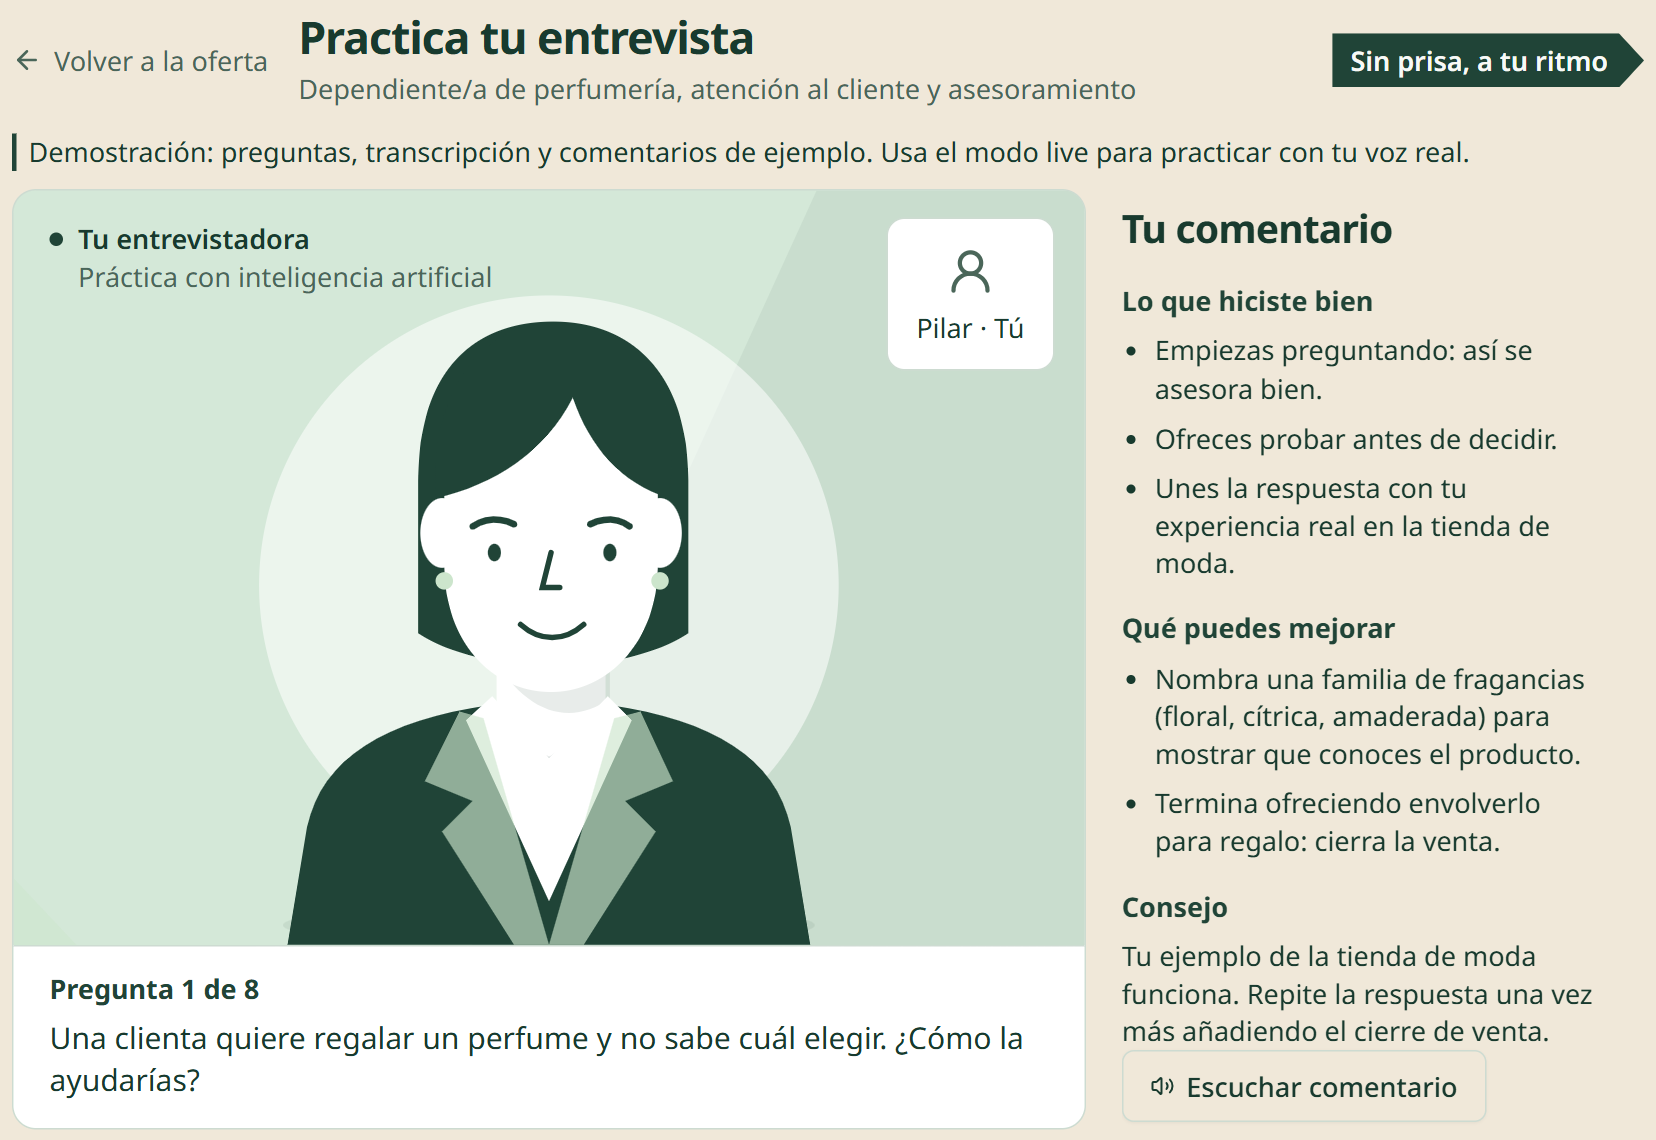
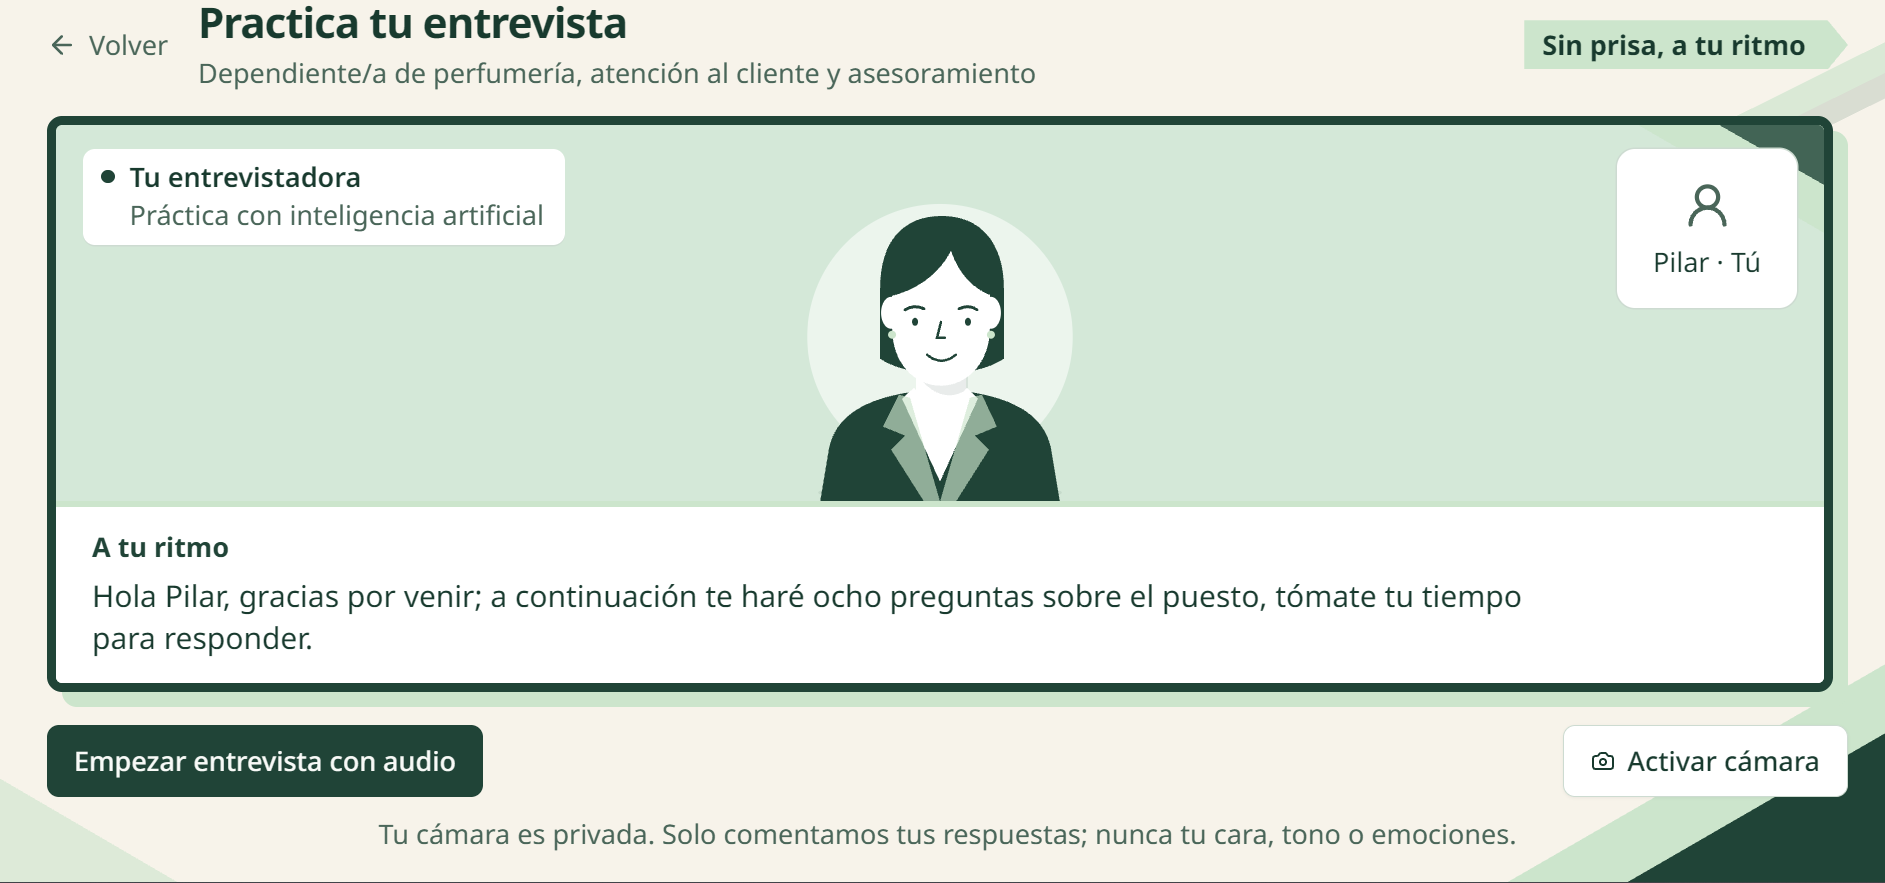
Actualiza la captura de la entrevista del pitch (#58)

diff --git a/pitch/style.css b/pitch/style.css
@@ -124,15 +124,14 @@
 .demo-cv .demo-cv-fija { display: none; }
 html.print .demo-cv .demo-cv-fija { display: block; }
 html.print .demo-cv .demo-cv-animada { display: none; }
-.demo-entrevista {
-  display: grid;
-  grid-template-columns: 3fr 2fr;
-  align-items: center;
-  gap: 1.5rem;
+.demo-entrevista img { object-position: center; }
+.demo-entrevista figcaption {
+  display: flex;
+  justify-content: center;
+  gap: 2.5rem;
+  font-size: 1.1rem;
 }
-.demo-entrevista figcaption { margin: 0; font-size: 1.5rem; }
 .demo-entrevista figcaption p { margin: 0; line-height: 1.35; }
-.demo-entrevista figcaption p + p { margin-top: 1.4rem; }
 
 /* Cierre */
 .cierre { font-family: var(--font-display-family); font-size: 2.6rem; line-height: 1.2; margin: 1.6rem 0 1rem; }

diff --git a/pitch/slides.md b/pitch/slides.md
@@ -151,7 +151,7 @@ Con el CV abierto, Pilar pulsa «Mejorar mi CV». La versión adaptada hace visi
 # Pilar practica la entrevista
 
 <figure class="demo-captura demo-entrevista">
-  <img src="/demo-entrevista.png" alt="Al curro muestra una pregunta sobre cómo ayudar a elegir un perfume y el comentario de la IA." />
+  <img src="/demo-entrevista.png" alt="Pantalla inicial de la entrevista de Pilar para una oferta de perfumería, con la entrevistadora virtual y la opción de empezar con audio." />
   <figcaption>
     <p><strong>Lo que hizo bien</strong><br>Preguntó qué buscaba la clienta.</p>
     <p><strong>Qué puede mejorar</strong><br>Sugerir una familia de fragancias.</p>
